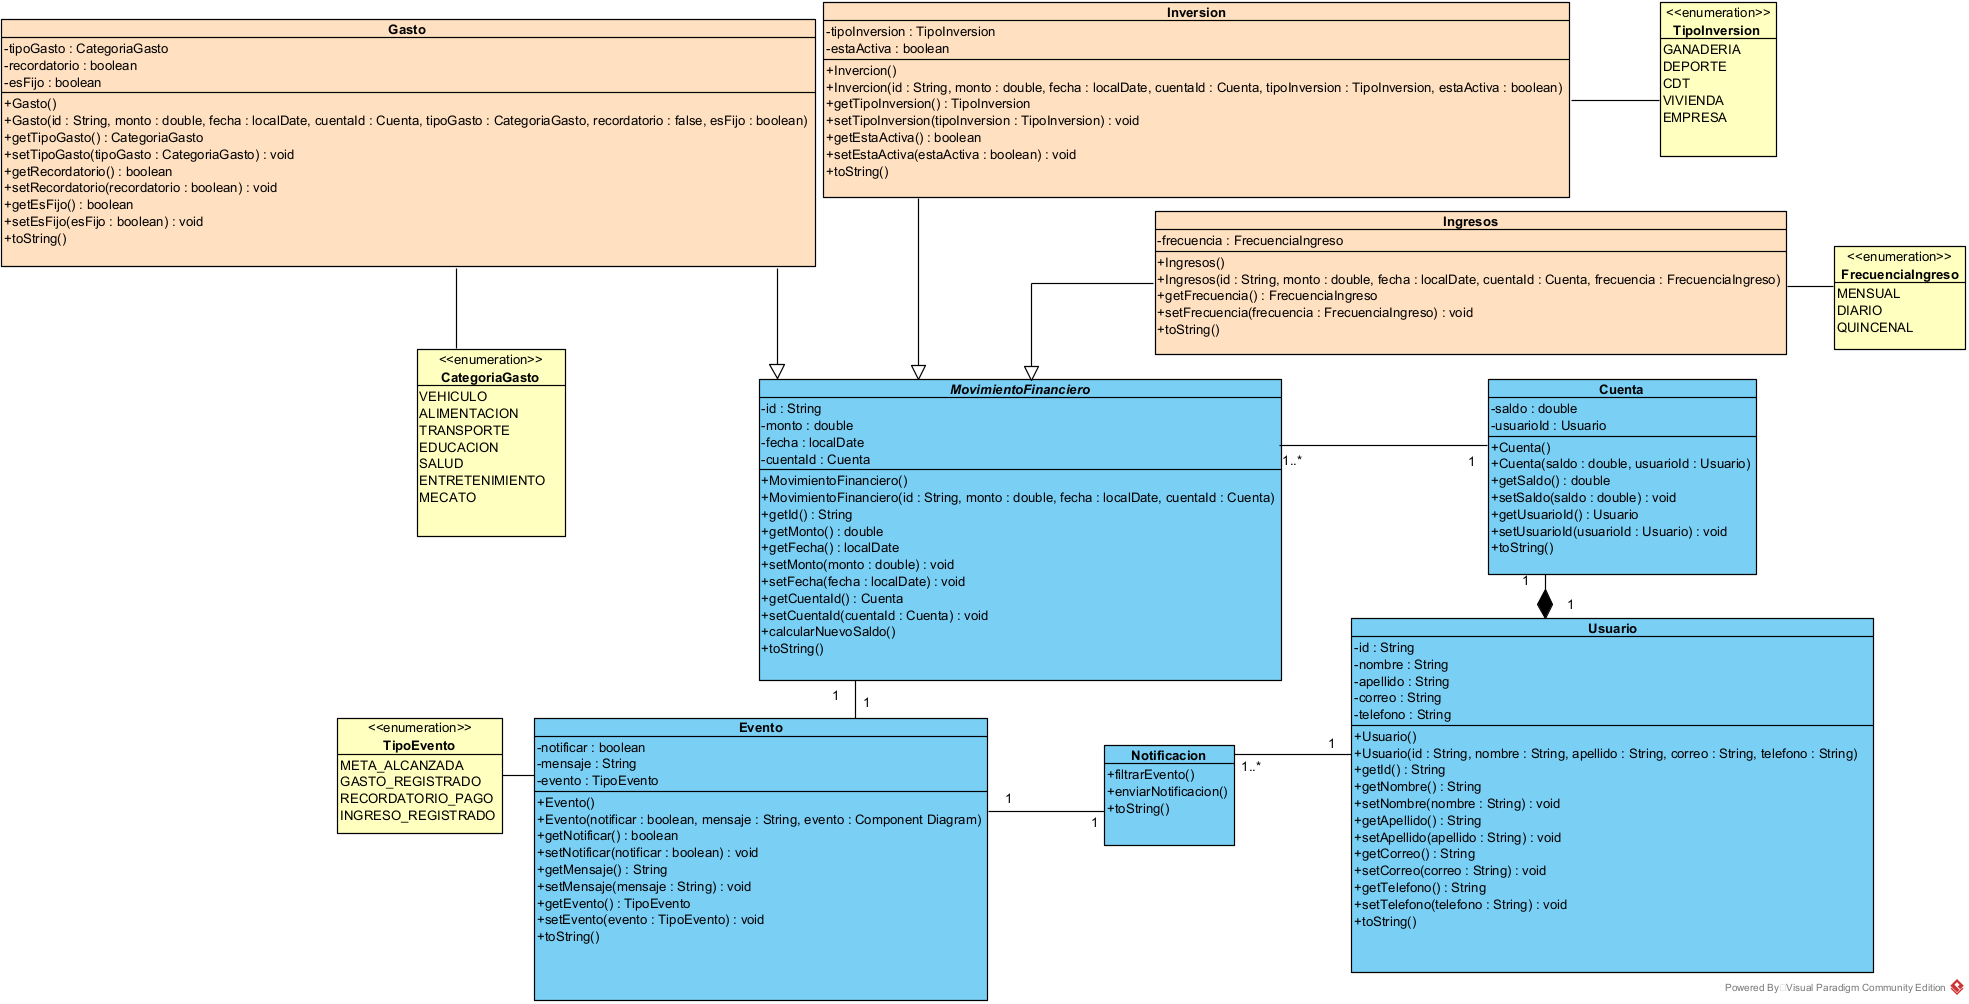
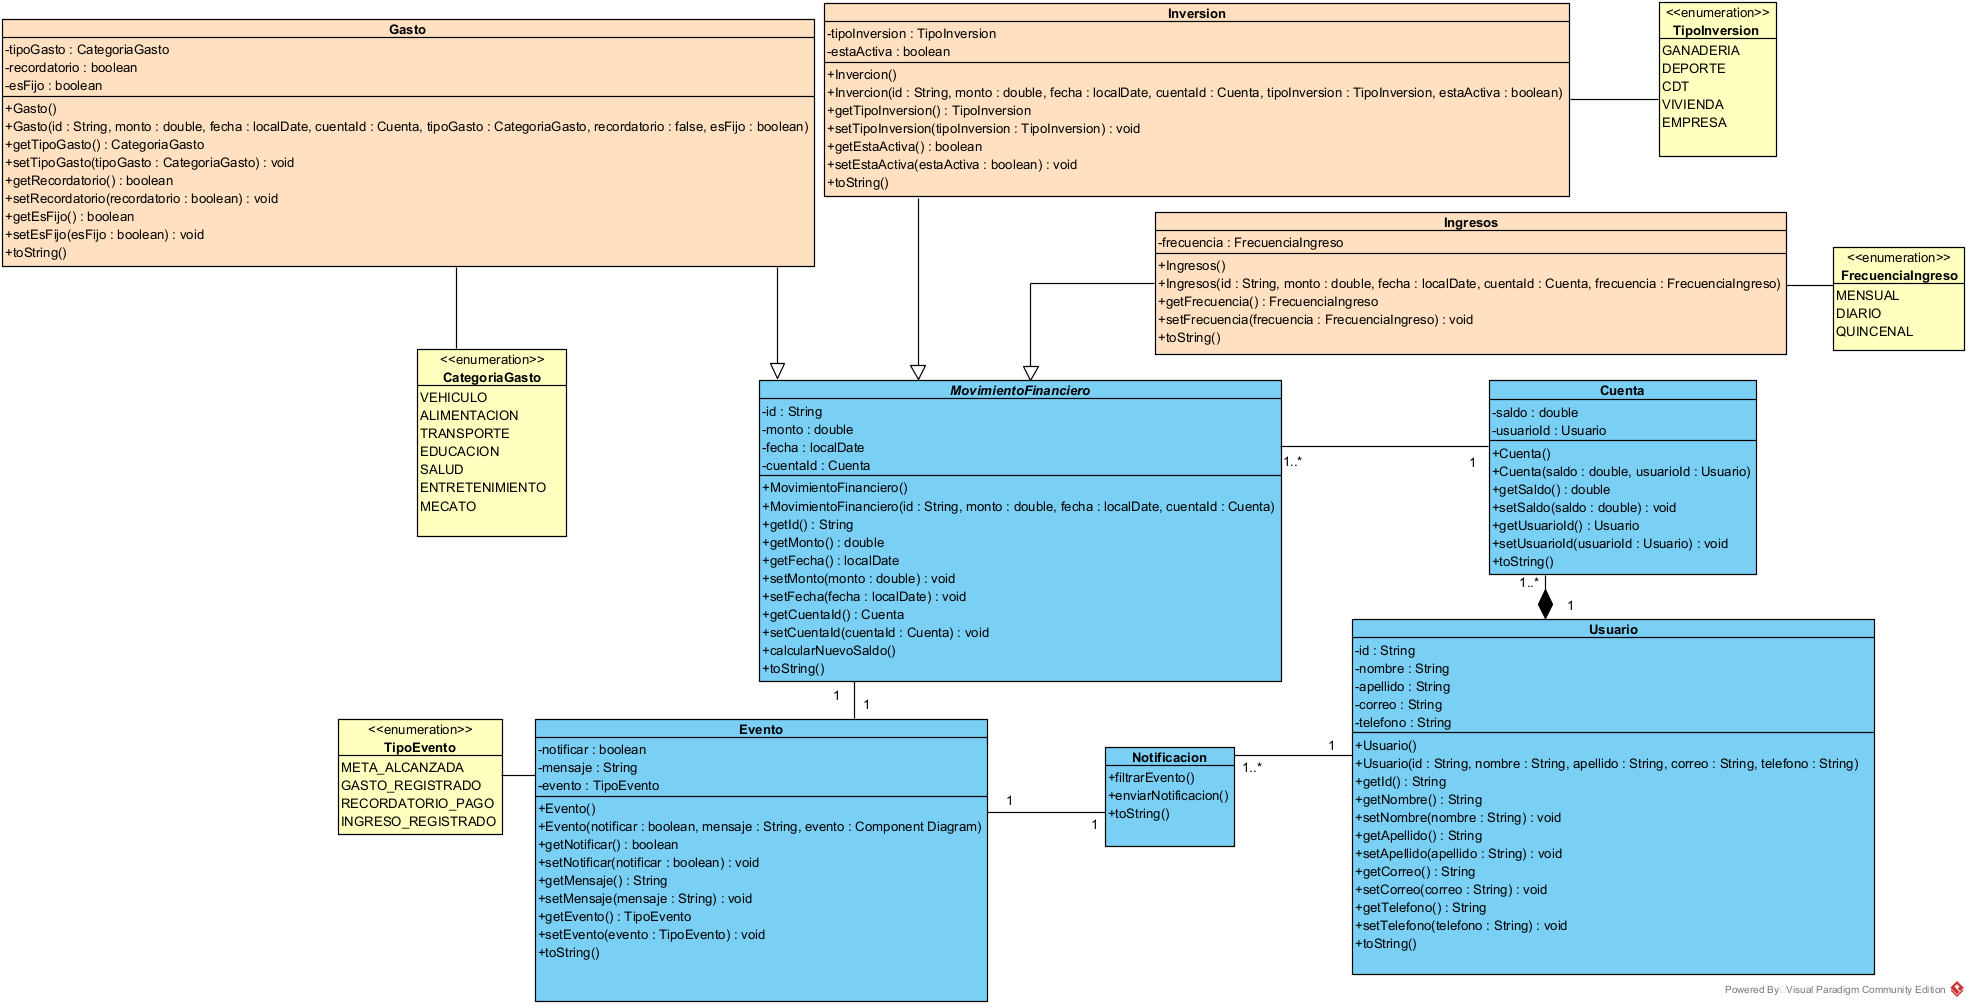
feat: implement service layer logic for Gasto, Ingreso, and Inversion, and add class diagram documentation

diff --git a/src/main/java/com/sistema/financiero/service/impl/InversionServiceImpl.java b/src/main/java/com/sistema/financiero/service/impl/InversionServiceImpl.java
@@ -2,7 +2,9 @@ package com.sistema.financiero.service.impl;
 
 import com.sistema.financiero.dto.request.InversionRequest;
 import com.sistema.financiero.dto.response.MovimientoResponse;
+import com.sistema.financiero.model.Cuenta;
 import com.sistema.financiero.model.Inversion;
+import com.sistema.financiero.repository.CuentaRepository;
 import com.sistema.financiero.repository.InversionRepository;
 import com.sistema.financiero.service.InversionService;
 import lombok.AllArgsConstructor;
@@ -18,9 +20,13 @@ import java.util.stream.Collectors;
 public class InversionServiceImpl implements InversionService {
 
     private final InversionRepository inversionRepository;
+    private final CuentaRepository cuentaRepository;
 
     @Override
     public MovimientoResponse crearInversion(InversionRequest request) {
+        Cuenta cuenta = cuentaRepository.findById(request.getCuentaId())
+                .orElseThrow(() -> new RuntimeException("Cuenta no encontrada"));
+
         Inversion inversion = Inversion.builder()
                 .cuentaId(request.getCuentaId())
                 .monto(request.getMonto())
@@ -34,6 +40,10 @@ public class InversionServiceImpl implements InversionService {
                 .fechaActualizacion(LocalDateTime.now())
                 .build();
         Inversion inversionGuardada = inversionRepository.save(inversion);
+
+        cuenta.setSaldo(cuenta.getSaldo() - request.getMonto());
+        cuentaRepository.save(cuenta);
+
         return mapearAResponse(inversionGuardada);
     }
 
@@ -76,6 +86,14 @@ public class InversionServiceImpl implements InversionService {
     public MovimientoResponse actualizarInversion(String id, InversionRequest request) {
         Inversion inversion = inversionRepository.findById(id)
                 .orElseThrow(() -> new RuntimeException("Inversión no encontrada"));
+
+        Cuenta cuenta = cuentaRepository.findById(inversion.getCuentaId())
+                .orElseThrow(() -> new RuntimeException("Cuenta no encontrada"));
+
+        double diferencia = request.getMonto() - inversion.getMonto();
+        cuenta.setSaldo(cuenta.getSaldo() - diferencia);
+        cuentaRepository.save(cuenta);
+
         inversion.setMonto(request.getMonto());
         inversion.setDescripcion(request.getDescripcion());
         inversion.setTipoInversion(request.getTipoInversion());
@@ -89,6 +107,14 @@ public class InversionServiceImpl implements InversionService {
 
     @Override
     public void eliminarInversion(String id) {
+        Inversion inversion = inversionRepository.findById(id)
+                .orElseThrow(() -> new RuntimeException("Inversión no encontrada"));
+        Cuenta cuenta = cuentaRepository.findById(inversion.getCuentaId())
+                .orElseThrow(() -> new RuntimeException("Cuenta no encontrada"));
+
+        cuenta.setSaldo(cuenta.getSaldo() + inversion.getMonto());
+        cuentaRepository.save(cuenta);
+
         inversionRepository.deleteById(id);
     }
 

diff --git a/src/main/java/com/sistema/financiero/service/impl/IngresoServiceImpl.java b/src/main/java/com/sistema/financiero/service/impl/IngresoServiceImpl.java
@@ -2,7 +2,9 @@ package com.sistema.financiero.service.impl;
 
 import com.sistema.financiero.dto.request.IngresoRequest;
 import com.sistema.financiero.dto.response.MovimientoResponse;
+import com.sistema.financiero.model.Cuenta;
 import com.sistema.financiero.model.Ingreso;
+import com.sistema.financiero.repository.CuentaRepository;
 import com.sistema.financiero.repository.IngresoRepository;
 import com.sistema.financiero.service.IngresoService;
 import lombok.AllArgsConstructor;
@@ -18,9 +20,13 @@ import java.util.stream.Collectors;
 public class IngresoServiceImpl implements IngresoService {
 
     private final IngresoRepository ingresoRepository;
+    private final CuentaRepository cuentaRepository;
 
     @Override
     public MovimientoResponse crearIngreso(IngresoRequest request) {
+        Cuenta cuenta = cuentaRepository.findById(request.getCuentaId())
+                .orElseThrow(() -> new RuntimeException("Cuenta no encontrada"));
+
         Ingreso ingreso = Ingreso.builder()
                 .cuentaId(request.getCuentaId())
                 .monto(request.getMonto())
@@ -31,6 +37,10 @@ public class IngresoServiceImpl implements IngresoService {
                 .fechaActualizacion(LocalDateTime.now())
                 .build();
         Ingreso ingresoGuardado = ingresoRepository.save(ingreso);
+
+        cuenta.setSaldo(cuenta.getSaldo() + request.getMonto());
+        cuentaRepository.save(cuenta);
+
         return mapearAResponse(ingresoGuardado);
     }
 
@@ -66,6 +76,14 @@ public class IngresoServiceImpl implements IngresoService {
     public MovimientoResponse actualizarIngreso(String id, IngresoRequest request) {
         Ingreso ingreso = ingresoRepository.findById(id)
                 .orElseThrow(() -> new RuntimeException("Ingreso no encontrado"));
+
+        Cuenta cuenta = cuentaRepository.findById(ingreso.getCuentaId())
+                .orElseThrow(() -> new RuntimeException("Cuenta no encontrada"));
+
+        double diferencia = request.getMonto() - ingreso.getMonto();
+        cuenta.setSaldo(cuenta.getSaldo() + diferencia);
+        cuentaRepository.save(cuenta);
+
         ingreso.setMonto(request.getMonto());
         ingreso.setDescripcion(request.getDescripcion());
         ingreso.setFrecuencia(request.getFrecuencia());
@@ -77,6 +95,14 @@ public class IngresoServiceImpl implements IngresoService {
 
     @Override
     public void eliminarIngreso(String id) {
+        Ingreso ingreso = ingresoRepository.findById(id)
+                .orElseThrow(() -> new RuntimeException("Ingreso no encontrado"));
+        Cuenta cuenta = cuentaRepository.findById(ingreso.getCuentaId())
+                .orElseThrow(() -> new RuntimeException("Cuenta no encontrada"));
+
+        cuenta.setSaldo(cuenta.getSaldo() - ingreso.getMonto());
+        cuentaRepository.save(cuenta);
+
         ingresoRepository.deleteById(id);
     }
 

diff --git a/src/main/java/com/sistema/financiero/service/impl/GastoServiceImpl.java b/src/main/java/com/sistema/financiero/service/impl/GastoServiceImpl.java
@@ -2,7 +2,9 @@ package com.sistema.financiero.service.impl;
 
 import com.sistema.financiero.dto.request.GastoRequest;
 import com.sistema.financiero.dto.response.MovimientoResponse;
+import com.sistema.financiero.model.Cuenta;
 import com.sistema.financiero.model.Gasto;
+import com.sistema.financiero.repository.CuentaRepository;
 import com.sistema.financiero.repository.GastoRepository;
 import com.sistema.financiero.service.GastoService;
 import lombok.AllArgsConstructor;
@@ -18,9 +20,13 @@ import java.util.stream.Collectors;
 public class GastoServiceImpl implements GastoService {
 
     private final GastoRepository gastoRepository;
+    private final CuentaRepository cuentaRepository;
 
     @Override
     public MovimientoResponse crearGasto(GastoRequest request) {
+        Cuenta cuenta = cuentaRepository.findById(request.getCuentaId())
+                .orElseThrow(() -> new RuntimeException("Cuenta no encontrada"));
+
         Gasto gasto = Gasto.builder()
                 .cuentaId(request.getCuentaId())
                 .monto(request.getMonto())
@@ -33,6 +39,10 @@ public class GastoServiceImpl implements GastoService {
                 .fechaActualizacion(LocalDateTime.now())
                 .build();
         Gasto gastoGuardado = gastoRepository.save(gasto);
+
+        cuenta.setSaldo(cuenta.getSaldo() - request.getMonto());
+        cuentaRepository.save(cuenta);
+
         return mapearAResponse(gastoGuardado);
     }
 
@@ -75,6 +85,14 @@ public class GastoServiceImpl implements GastoService {
     public MovimientoResponse actualizarGasto(String id, GastoRequest request) {
         Gasto gasto = gastoRepository.findById(id)
                 .orElseThrow(() -> new RuntimeException("Gasto no encontrado"));
+
+        Cuenta cuenta = cuentaRepository.findById(gasto.getCuentaId())
+                .orElseThrow(() -> new RuntimeException("Cuenta no encontrada"));
+
+        double diferencia = request.getMonto() - gasto.getMonto();
+        cuenta.setSaldo(cuenta.getSaldo() - diferencia);
+        cuentaRepository.save(cuenta);
+
         gasto.setMonto(request.getMonto());
         gasto.setDescripcion(request.getDescripcion());
         gasto.setTipoGasto(request.getTipoGasto());
@@ -88,6 +106,14 @@ public class GastoServiceImpl implements GastoService {
 
     @Override
     public void eliminarGasto(String id) {
+        Gasto gasto = gastoRepository.findById(id)
+                .orElseThrow(() -> new RuntimeException("Gasto no encontrado"));
+        Cuenta cuenta = cuentaRepository.findById(gasto.getCuentaId())
+                .orElseThrow(() -> new RuntimeException("Cuenta no encontrada"));
+
+        cuenta.setSaldo(cuenta.getSaldo() + gasto.getMonto());
+        cuentaRepository.save(cuenta);
+
         gastoRepository.deleteById(id);
     }
 
